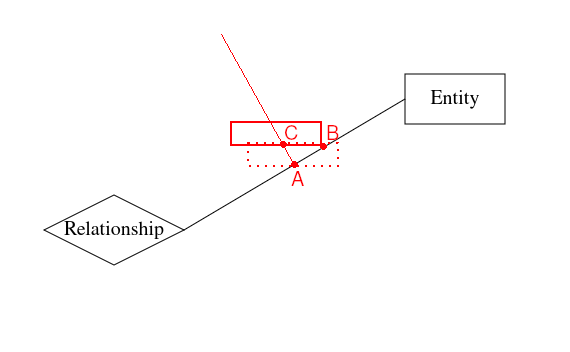
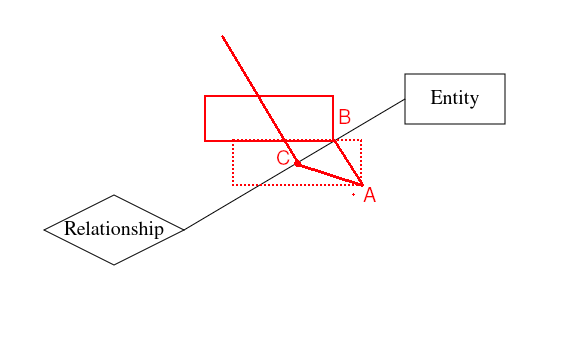
role: label name position doc

Changed region(s): [[0.3579, 0.1875, 0.6561, 0.5625], [0.3877, 0.125, 0.4175, 0.1562]]

diff --git a/internal/HowToPositionRoleNameLabel/HowToPositionRoleNameLabel.md b/internal/HowToPositionRoleNameLabel/HowToPositionRoleNameLabel.md
@@ -9,29 +9,28 @@
 ## Solution
 ![Solution](fig2.png "Solution")
 
-First, I postion label so that the bottom-center of it is at the center of the role connection line.
+First, I postion label so that the center of it(point C) is at the center of the role connection line.
 
-Then I move the label along the line which is perpendicular to the role connection line
+Then I translate the label along the line which is perpendicular to the role connection line
 until the label does not intersect the role connection.
 
-Finally, I draw the label whose bottom-center is at C.
+Finally, I draw the label whose right-bottom is at A.
 
-### How To Get The Point C?
+### How To Get The Translation Vector?
 
-Vector AC = Vector AB + Vector BC
+In the figure, the translation vector is AB.
+
+Vector AB = Vector AC + Vector CB
 
 Assume  
-Vector AB = (x1, y1),  
-Vector BC = (-w/2, 0), w is the width of label bounding box,  
-Vector AC = (x2, y2),  
-and the k is the slope of role connection line.
+Vector CB = (x1, y1), y1=k*x1, k is the slope of role connection line;  
+Vector AC = (-w/2, -h/2), w is the width of label bounding box, h is the height of the label bounding box;  
+Vector AB = (x2, y2);
 
 Then  
 x1 + (-w/2) = x2  
-y1 + 0 = y2  
+y1 + (-h/2) = y2  
 y1 = k * x1    
 x1 * x2 + y1 * y2 = 0
 
-The k and w is known, there 4 unkowns and 4 equations, so I can solve the equation group to get Vector AC(x2, y2).
-
-Finally, Point C = Point A + Vector AC
+The k and w is known, there 4 unkowns and 4 equations, so I can solve the equation group to get Vector AB(x2, y2).
